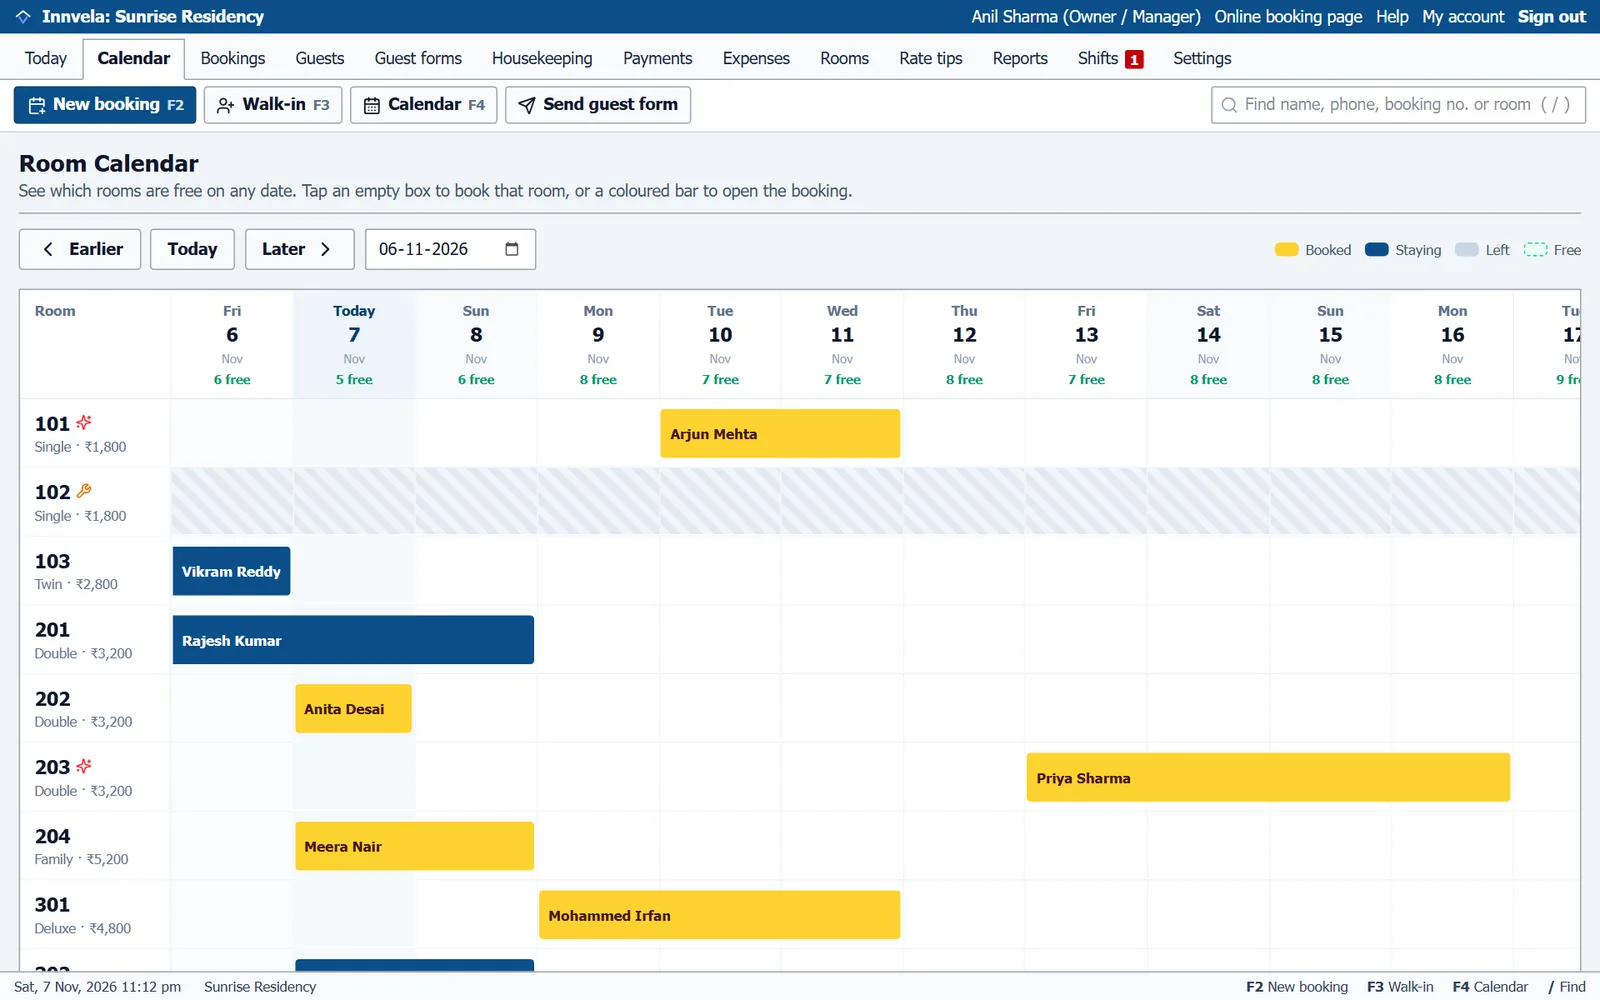
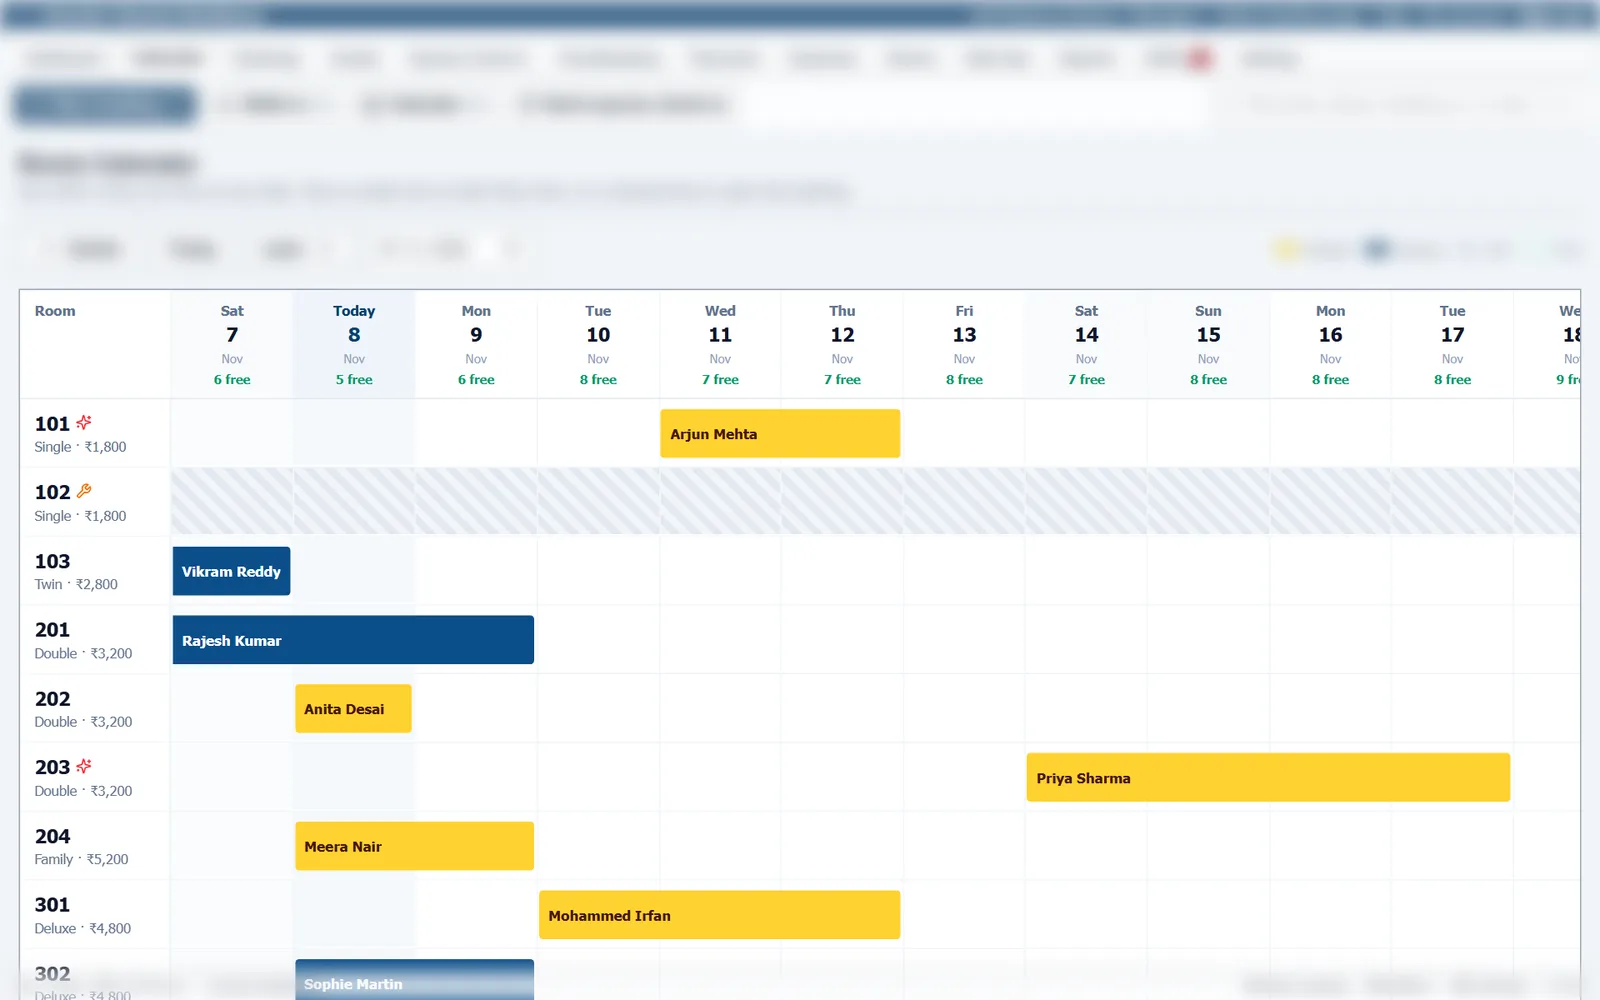
Landing-page screenshots with the same blur as the video
Every screenshot on the landing page is retaken from the current software and
keeps only the feature its section describes sharp: the Dashboard's room
board, the free rooms when booking, the calendar chart, the guest bill, the
invoice header and tax totals, the Needs cleaning column, expenses by kind
and the profit summary. Everything around them, and the menu of sections, is
blurred. The public booking website on a phone stays as it is.

today.webp is now dashboard.webp, and the script converts the images itself
(no Python needed).

diff --git a/src/app/welcome/page.tsx b/src/app/welcome/page.tsx
@@ -124,7 +124,7 @@ const FEATURE_GROUPS = [
 
 const SPOTLIGHTS = [
   {
-    image: "/welcome/today.webp",
+    image: "/welcome/dashboard.webp",
     eyebrow: "Dashboard",
     title: "Your whole property, the moment you sign in",
     text: "The Dashboard lists who is arriving and departing, with clear Check in and Check out buttons. Below, a box for every room shows who is in tonight, which rooms are free and ready, and which still need cleaning, with today's takings at the top.",
@@ -402,7 +402,7 @@ export default function WelcomePage() {
               </ul>
             </div>
             <div className="relative min-w-0 pb-10 lg:pb-0">
-              <BrowserFrame src="/welcome/today.webp" alt="The Dashboard showing arrivals, departures and every room tonight" priority />
+              <BrowserFrame src="/welcome/dashboard.webp" alt="The Dashboard showing arrivals, departures and every room tonight" priority />
               <PhoneFrame
                 src="/welcome/guest-site.webp"
                 alt="The hotel's own booking website on a phone"

diff --git a/docs/technical.md b/docs/technical.md
@@ -330,7 +330,9 @@ from the real app with the demo hotel. The video shows only a few highlights: on
 each screen the part being explained stays sharp and the rest is blurred (`spot()`
 in the script), the section tabs are always blurred, and every new screen opens
 fully blurred until the script picks what to show, so competitors cannot copy the
-whole software from it.
+whole software from it. The landing-page screenshots (`scripts/tour/capture-screens.mjs`)
+use the same blur: each keeps only the feature its section describes sharp. The phone
+screenshot of the public booking website is not blurred.
 Re-record them after changing the screens:
 
 ```bash
@@ -338,7 +340,7 @@ Re-record them after changing the screens:
 npm run db:setup:dev
 npm run build && npm start                      # in one terminal
 npm i --no-save playwright && npx playwright install chromium
-node scripts/tour/capture-screens.mjs http://localhost:3000   # needs Python + Pillow
+node scripts/tour/capture-screens.mjs http://localhost:3000
 npm run db:seed:demo                            # only if the database was used since seeding
 node scripts/tour/record-tour.mjs http://localhost:3000       # needs ffmpeg (or FFMPEG=<path>)
 ```
